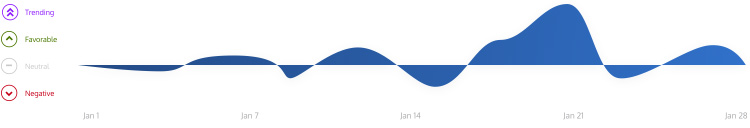
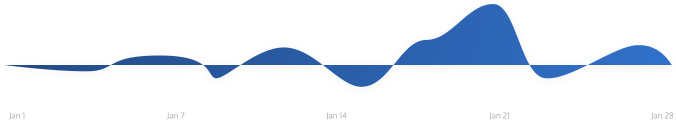
new changes overview page

diff --git a/index.html b/index.html
@@ -572,8 +572,34 @@
               <div class="box-view-content">
                 <h3>News Feed Sentiment</h3>
 
-                <div class="overview-chart">
+                <div class="overview-chart-container">
+
+                  <div class="feed-chart-control">
+                    <ul>
+                      <li>
+                        <img src="./assets/images/double-arrow-up.png" alt="">
+                        <span class="purple">Tranding</span>
+                      </li>
+                      <li>
+                        <img src="./assets/images/single-arrow-up.png" alt="">
+                        <span class="green">Favorable</span>
+                      </li>
+                      <li>
+                        <img src="./assets/images/minus.png" alt="">
+                        <span class="light-gray">Neutral</span>
+                      </li>
+                      <li>
+                        <img src="./assets/images/single-arrow-down.png" alt="">
+                        <span class="red">Neative</span>
+                      </li>
+                    </ul>
+                  </div>
+
+                  <div class="news-feed-chart">
                     <img src="./assets/images/overview-chart.jpg" alt="" style="width:100%; margin-bottom:5px">
+                  </div>
+
+
                 </div>
 
                 <h3>News Feed</h3>

diff --git a/assets/css/style.css b/assets/css/style.css
@@ -8781,4 +8781,43 @@ line-height: 11px;
 .page-search {
     margin: 22px 0px;
 }
+.overview-chart-container {
+    display: flex;
+}
+.news-feed-chart{
+  flex: 1
+}
+.feed-chart-control {
+    margin-right: 18px;
+}
+.feed-chart-control ul {
+    list-style-type: none;
+    padding: 0px;
+}
+.feed-chart-control li {
+    display: flex;
+    align-items: center;
+    justify-content: flex-start;
+    margin-bottom: 9px;
+}
+.feed-chart-control img{
+
+}
+.feed-chart-control ul li span {
+    font-size: 8px;
+    margin-left: 6px;
+    line-height: initial;
+}
+.purple {
+    color: #8f1cfb;
+}
+.green {
+    color: #548014;
+}
+.light-gray {
+    color: #c9c9c9;
+}
+.red {
+    color: #ca0c1f;
+}
 /*#####################################################################*/
